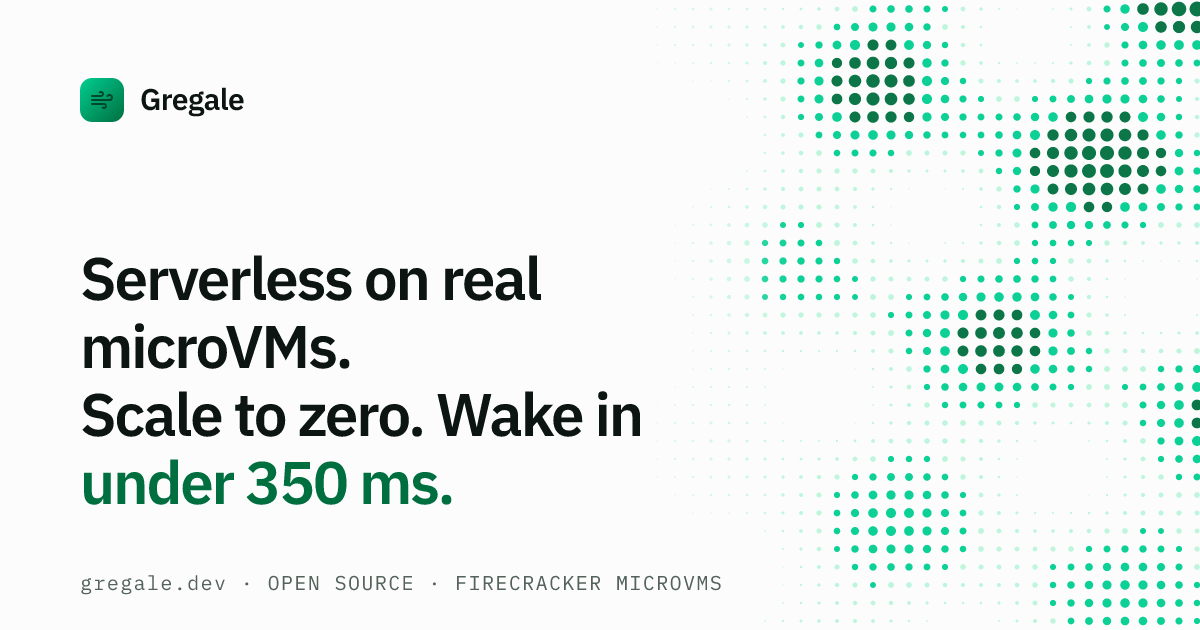
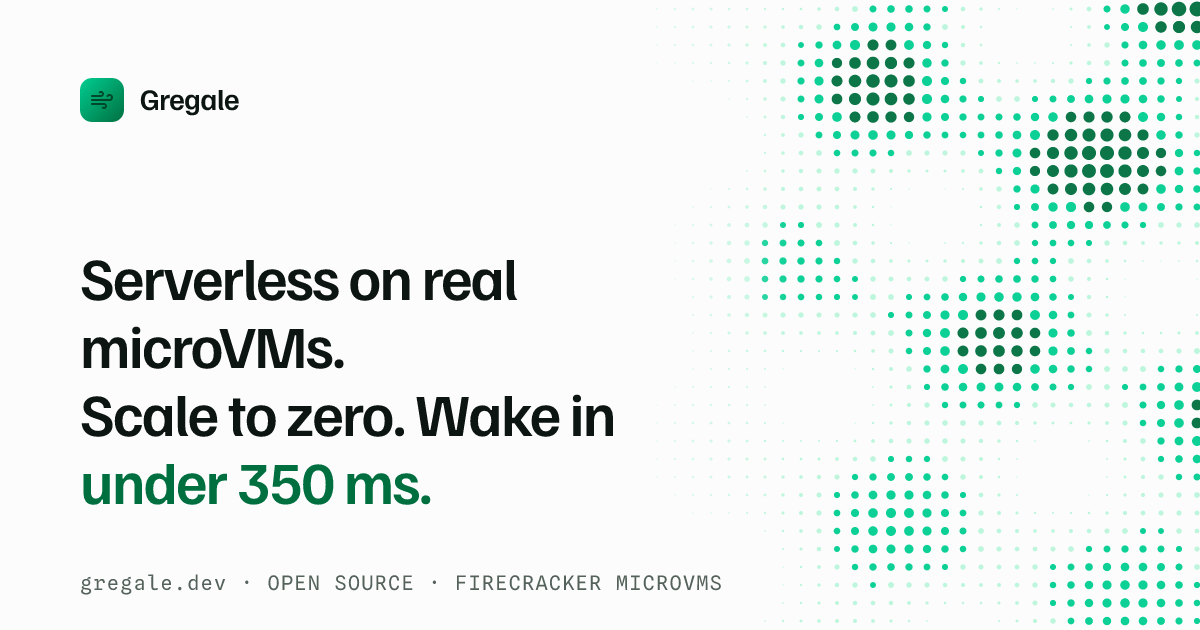
Swap the type system to Familjen Grotesk + Spline Sans Mono
One brand, new voice, changed at the tokens: the Google Fonts load in
index.html and --font-sans/--font-mono in index.css. Familjen Grotesk
is fitted a touch tighter than Plex was, so display tracking eases off
a step here and in the two components that hard-code it. The og card
now fetches static instances from the Google Fonts API — both families
ship variable-only, which resvg cannot instance — and og.png is
re-rendered in the new type.

Claude-Session: https://claude.ai/code/session_01EHh1EmF3qmsjnq3JgpsbWV

diff --git a/src/index.css b/src/index.css
@@ -1,4 +1,4 @@
-/* IBM Plex type system — see index.html for the font loads. */
+/* Familjen Grotesk type system — see index.html for the font loads. */
 @import 'tailwindcss';
 @import 'tw-animate-css';
 
@@ -216,16 +216,17 @@
   --radius-lg: var(--radius);
   --radius-xl: calc(var(--radius) + 4px);
 
-  /* --- IBM Plex type system -----------------------------------------------
-     Sans — IBM Plex Sans: headlines, body, and UI. Engineered skeleton with
-            humanist details; the neutral-but-technical voice this product
-            wants. Display sizes lean on weight and tight tracking, not a
-            second family.
-     Mono — IBM Plex Mono: code and identifiers, and — following IBM's own
-            design language — eyebrows, labels, and metrics, where it does the
-            contrast work a display face would otherwise do. */
-  --font-sans: 'IBM Plex Sans', -apple-system, BlinkMacSystemFont, 'Segoe UI', sans-serif;
-  --font-mono: 'IBM Plex Mono', ui-monospace, SFMono-Regular, Menlo, monospace;
+  /* --- Familjen Grotesk type system ----------------------------------------
+     Sans — Familjen Grotesk: headlines, body, and UI. A grotesque with an
+            engineered skeleton and sly terminals (watch the g and the y) —
+            the same neutral-but-technical voice Plex carried, with more
+            character per glyph. Display sizes lean on weight and tight
+            tracking, not a second family.
+     Mono — Spline Sans Mono: code and identifiers, plus eyebrows, labels,
+            and metrics, where it does the contrast work a display face would
+            otherwise do. Drawn as a UI companion, so 11px labels stay crisp. */
+  --font-sans: 'Familjen Grotesk', -apple-system, BlinkMacSystemFont, 'Segoe UI', sans-serif;
+  --font-mono: 'Spline Sans Mono', ui-monospace, SFMono-Regular, Menlo, monospace;
   --font-serif: var(--font-sans);
 
   --animate-color-cycle: color-cycle 6s ease-in-out infinite;
@@ -352,26 +353,26 @@
     background-color: var(--color-background);
     color: var(--color-foreground);
     font-family: var(--font-sans);
-    letter-spacing: -0.006em;
+    letter-spacing: -0.004em;
     -webkit-font-smoothing: antialiased;
     -moz-osx-font-smoothing: grayscale;
   }
 
-  /* Plex Sans is generously fitted, so display sizes need real negative
-     tracking to stop headlines reading as loose. Weight carries the hierarchy
-     that a second family would otherwise provide. */
+  /* Familjen Grotesk is fitted a touch tighter than Plex was, so display
+     tracking eases off a step. Weight still carries the hierarchy that a
+     second family would otherwise provide. */
   h1,
   h2,
   h3,
   h4 {
     font-weight: 600;
-    letter-spacing: -0.02em;
+    letter-spacing: -0.018em;
   }
   h1 {
-    letter-spacing: -0.032em;
+    letter-spacing: -0.03em;
   }
   h2 {
-    letter-spacing: -0.026em;
+    letter-spacing: -0.024em;
   }
 
   @keyframes shake {
@@ -443,7 +444,7 @@
     }
   }
 
-  /* Plex Mono as the label voice: eyebrows, section kickers, metrics. */
+  /* Spline Sans Mono as the label voice: eyebrows, section kickers, metrics. */
   .label-mono {
     font-family: var(--font-mono);
     font-size: 0.6875rem;

diff --git a/index.html b/index.html
@@ -17,12 +17,12 @@
       content="Open-source serverless on Firecracker microVMs. Functions scale to zero when idle and wake from a snapshot in under 350 ms."
     />
     <meta name="twitter:card" content="summary_large_image" />
-    <!-- IBM Plex superfamily (SIL OFL): Plex Sans carries display and text,
-         Plex Mono carries code plus the eyebrow/label voice. -->
+    <!-- Familjen Grotesk + Spline Sans Mono (SIL OFL): the grotesque carries
+         display and text, the mono carries code plus the eyebrow/label voice. -->
     <link rel="preconnect" href="https://fonts.googleapis.com" />
     <link rel="preconnect" href="https://fonts.gstatic.com" crossorigin />
     <link
-      href="https://fonts.googleapis.com/css2?family=IBM+Plex+Mono:wght@400;500&family=IBM+Plex+Sans:wght@400;500;600;700&display=swap"
+      href="https://fonts.googleapis.com/css2?family=Familjen+Grotesk:wght@400..700&family=Spline+Sans+Mono:wght@400..700&display=swap"
       rel="stylesheet"
     />
   </head>

diff --git a/src/components/landing/footer.tsx b/src/components/landing/footer.tsx
@@ -273,7 +273,7 @@ export function Footer() {
           front of the dissolve, so it needs real ink: dark where it meets the
           link band, easing off as it drops out of the frame. */}
       <div aria-hidden className="pointer-events-none relative z-10 select-none overflow-hidden">
-        <p className="translate-y-[22%] bg-gradient-to-b from-foreground via-[#0f3d2b] to-brand bg-clip-text text-center text-[19vw] font-semibold leading-[0.75] tracking-[-0.055em] text-transparent">
+        <p className="translate-y-[22%] bg-gradient-to-b from-foreground via-[#0f3d2b] to-brand bg-clip-text text-center text-[19vw] font-semibold leading-[0.75] tracking-[-0.05em] text-transparent">
           GREGALE
         </p>
       </div>

diff --git a/src/components/landing/hero.tsx b/src/components/landing/hero.tsx
@@ -54,7 +54,7 @@ export function Hero() {
 
           <motion.h1
             {...reveal(0.08)}
-            className="text-balance text-[42px] font-semibold leading-[1.04] tracking-[-0.034em] text-foreground sm:text-[58px] lg:text-[68px]"
+            className="text-balance text-[42px] font-semibold leading-[1.04] tracking-[-0.03em] text-foreground sm:text-[58px] lg:text-[68px]"
           >
             Serverless on real microVMs. Scale to zero. Wake in{' '}
             <span className="text-brand">under 350&nbsp;ms.</span>
